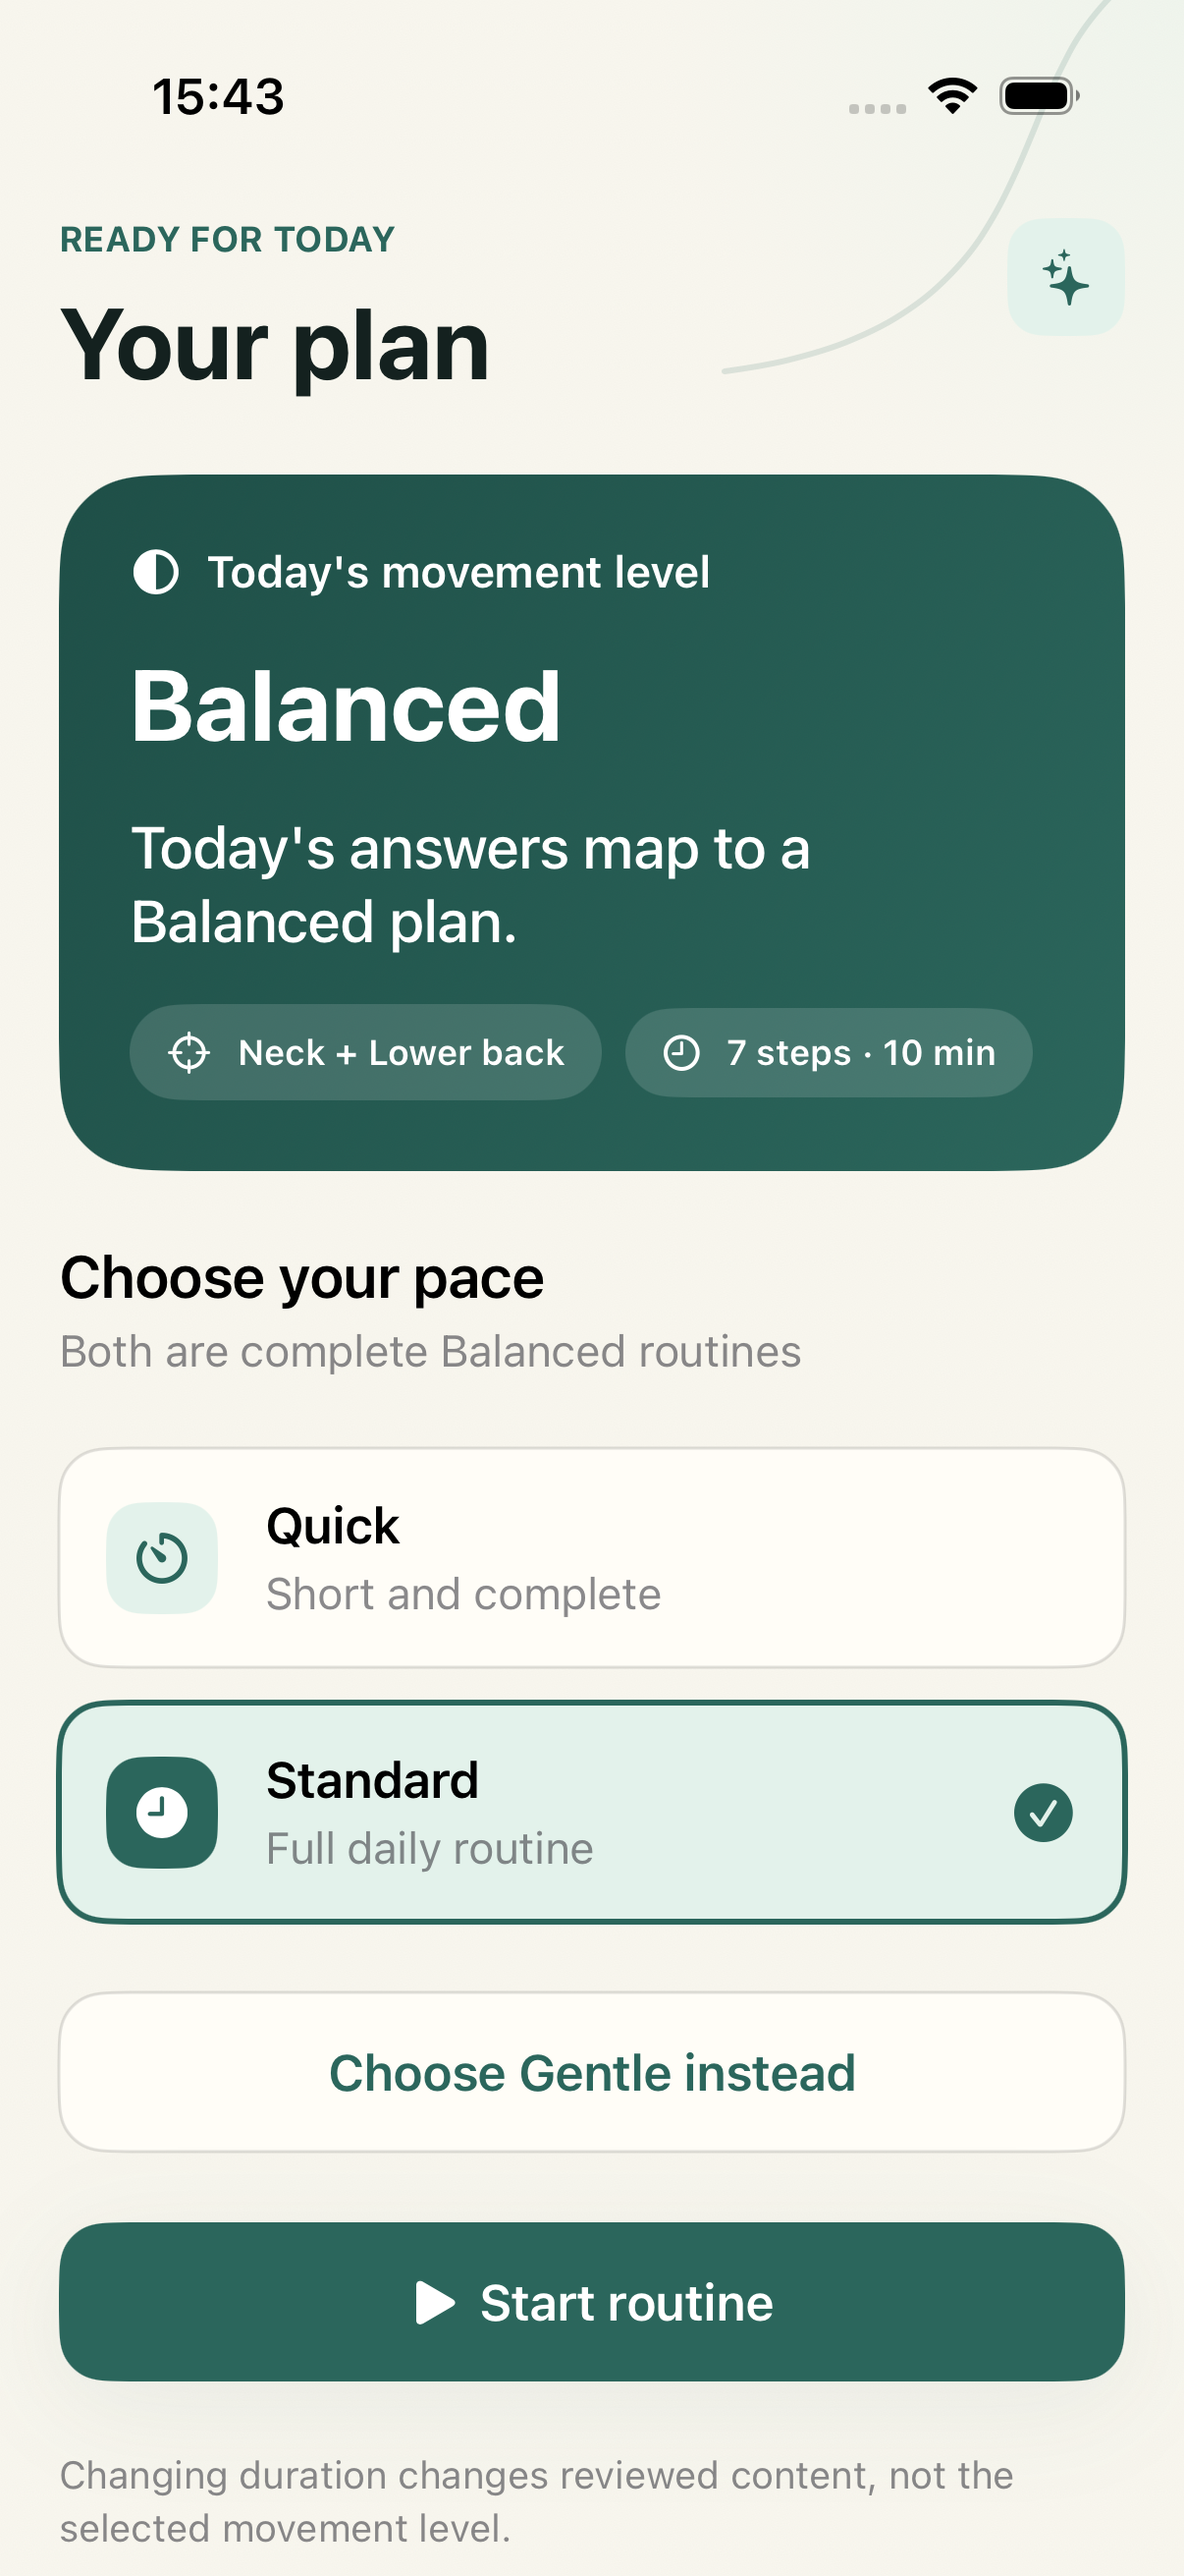
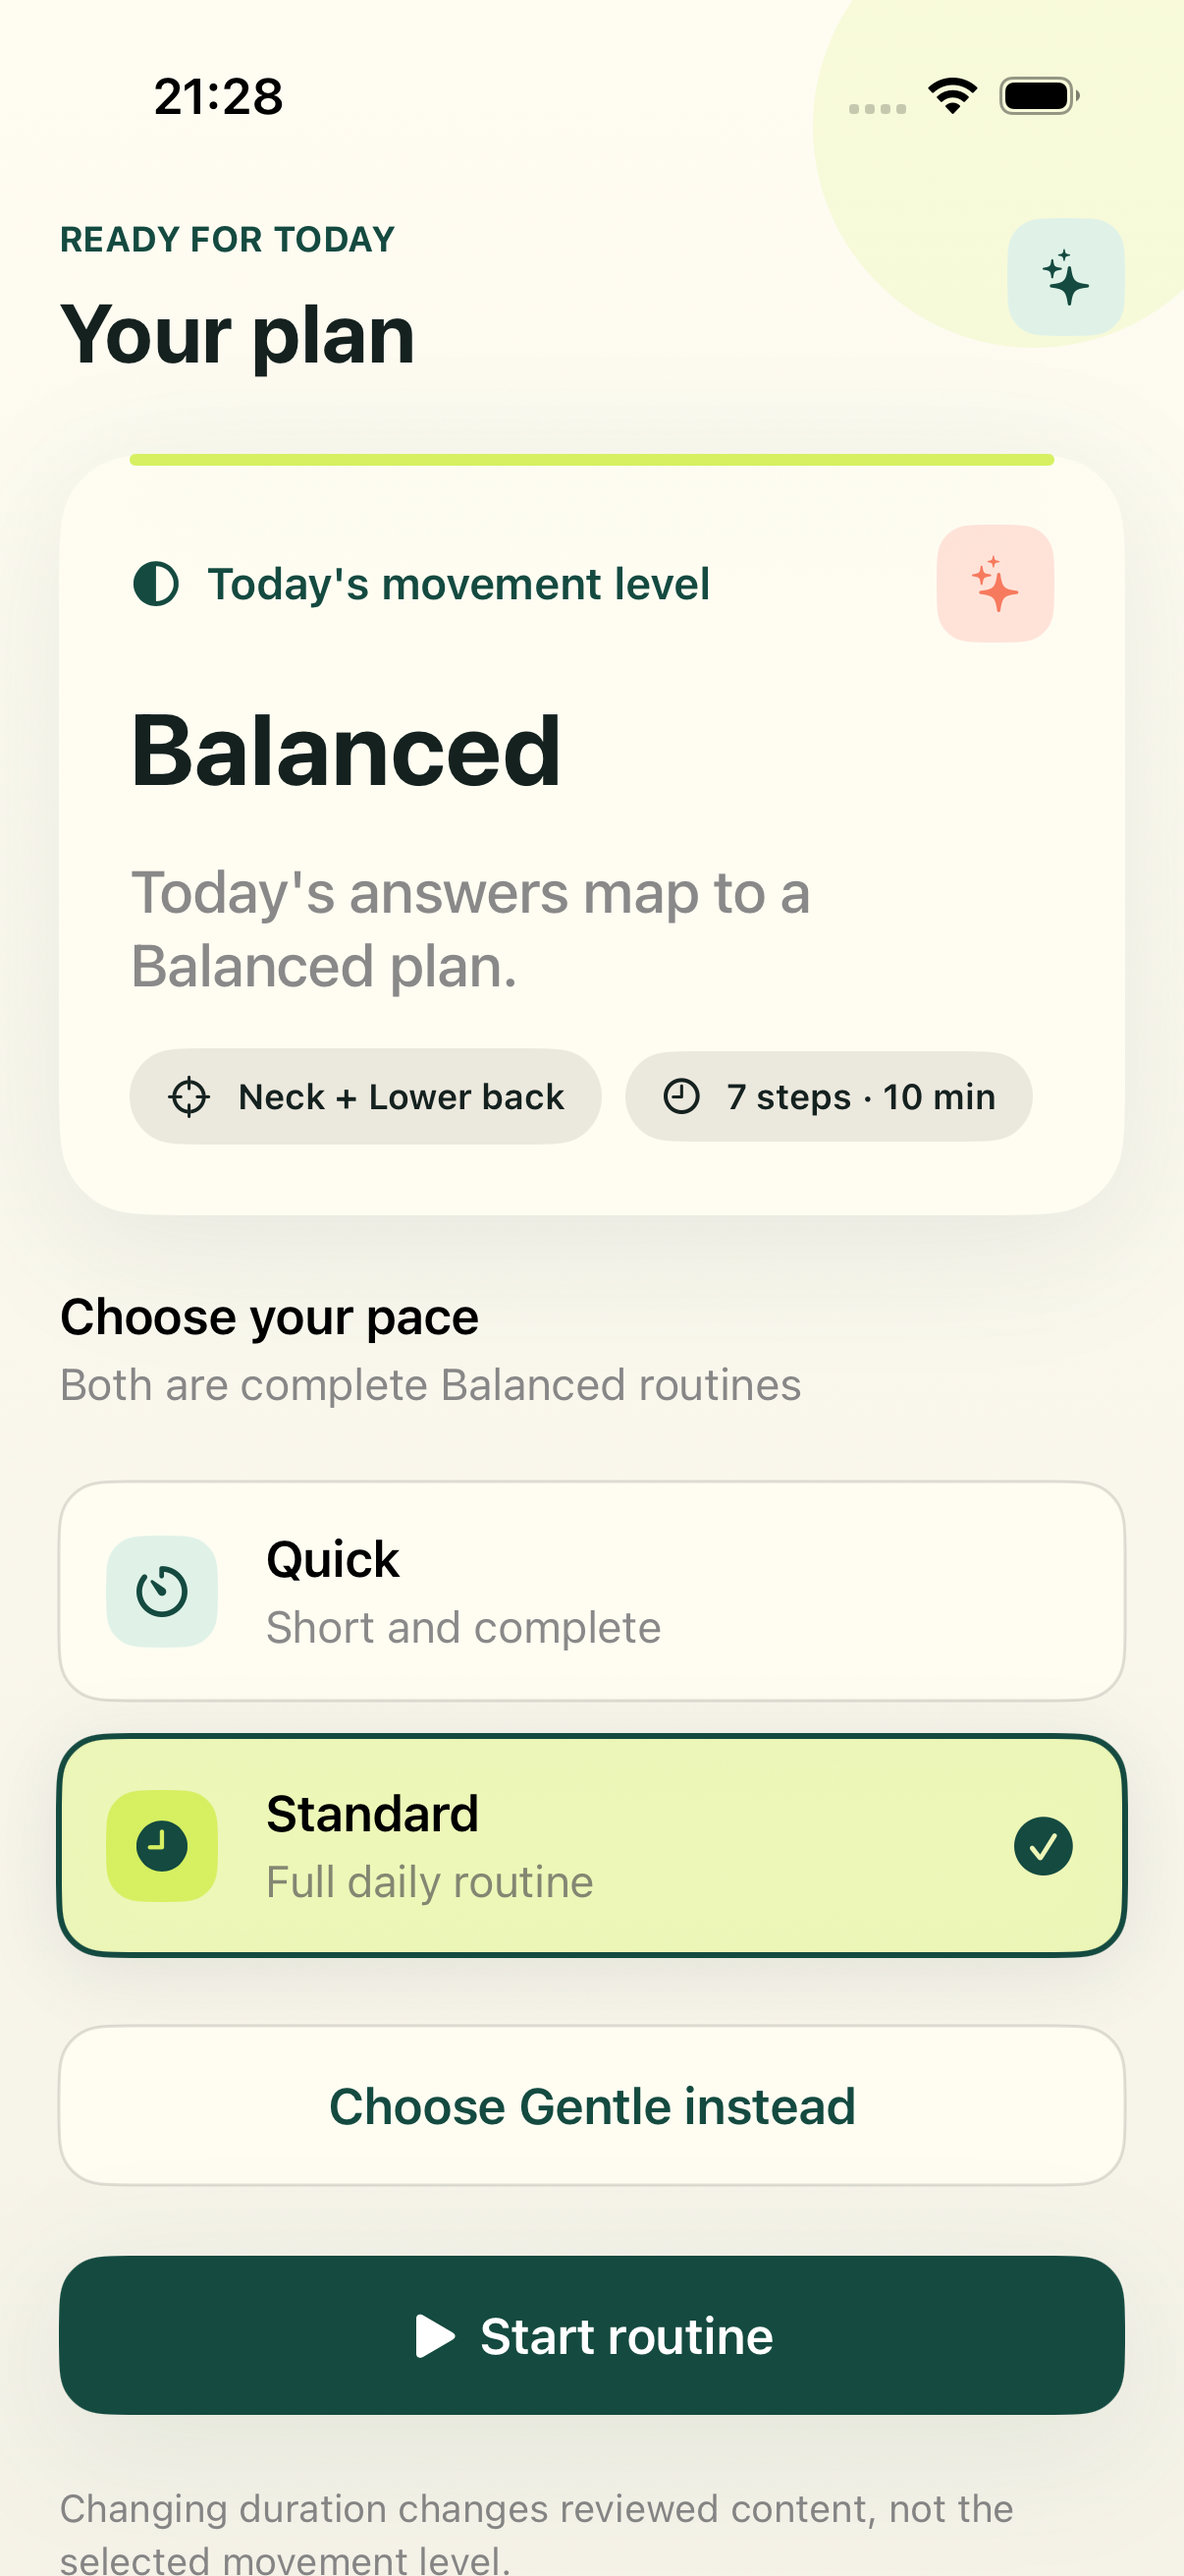
feat(ui): focus the daily coaching experience

diff --git a/Packages/KineoModules/Sources/KineoUI/KineoRootView.swift b/Packages/KineoModules/Sources/KineoUI/KineoRootView.swift
@@ -176,7 +176,7 @@ private struct WelcomeView: View {
                             .accessibilityHeading(.h1)
                             .accessibilityFocused($titleFocused)
                             .fixedSize(horizontal: false, vertical: true)
-                        Text("Check in. See what fits today. Move at your pace.")
+                        Text("Two quick answers. One clear next step.")
                             .font(.title3.weight(.medium))
                             .foregroundStyle(.secondary)
                             .fixedSize(horizontal: false, vertical: true)
@@ -336,53 +336,64 @@ private struct TodayTabsView: View {
             ProfileTabView(model: model)
                 .tabItem { Label("Profile", systemImage: "person.crop.circle") }
         }
+        .kineoTabChrome()
         .task { model.send(.loadDashboard) }
     }
 }
 
 private struct TodayFocusCard: View {
+    @Environment(\.dynamicTypeSize) private var dynamicTypeSize
     let area: BodyArea
     let startCheckIn: () -> Void
 
     var body: some View {
         ZStack(alignment: .topTrailing) {
             RoundedRectangle(cornerRadius: KineoLayout.heroRadius, style: .continuous)
-                .fill(KineoColor.brandGradient)
-            KineoMovementPath()
-                .stroke(
-                    Color.white.opacity(KineoLayout.decorativeOpacity),
-                    style: StrokeStyle(
-                        lineWidth: KineoLayout.selectedBorderWidth,
-                        lineCap: .round
-                    )
-                )
+                .fill(KineoColor.spotlightGradient)
+            Circle()
+                .fill(KineoColor.coralSurface)
                 .frame(
-                    width: KineoLayout.decorativePathWidth,
-                    height: KineoLayout.decorativePathHeight
+                    width: KineoLayout.compactDecorativeOrbSize,
+                    height: KineoLayout.compactDecorativeOrbSize
                 )
+                .padding(KineoLayout.standardSpacing)
                 .accessibilityHidden(true)
             VStack(alignment: .leading, spacing: KineoLayout.standardSpacing) {
-                Label(area.title, systemImage: area.symbol)
-                    .font(.subheadline.weight(.semibold))
-                    .foregroundStyle(Color.white)
-                    .padding(.horizontal, KineoLayout.smallSpacing)
-                    .frame(minHeight: KineoLayout.minimumTouchTarget)
-                    .background(
-                        Color.white.opacity(KineoLayout.decorativeOpacity),
-                        in: Capsule()
-                    )
-                Text("How does movement feel today?")
-                    .font(.title.bold())
-                    .foregroundStyle(Color.white)
-                    .fixedSize(horizontal: false, vertical: true)
-                Text("Two quick prompts guide what Kineo can offer today. Time changes length, never the selected level.")
+                HStack(alignment: .bottom, spacing: KineoLayout.smallSpacing) {
+                    VStack(alignment: .leading, spacing: KineoLayout.smallSpacing) {
+                        Label(area.title, systemImage: area.symbol)
+                            .font(.subheadline.weight(.semibold))
+                            .foregroundStyle(KineoColor.accent)
+                            .padding(.horizontal, KineoLayout.smallSpacing)
+                            .frame(minHeight: KineoLayout.minimumTouchTarget)
+                            .background(.regularMaterial, in: Capsule())
+                        Text("Your move for today starts here.")
+                            .font(.title.bold())
+                            .foregroundStyle(KineoColor.brandInk)
+                            .fixedSize(horizontal: false, vertical: true)
+                    }
+                    .frame(maxWidth: .infinity, alignment: .leading)
+                    if !dynamicTypeSize.isAccessibilitySize {
+                        Image("KineoHeroFigure", bundle: .module)
+                            .resizable()
+                            .scaledToFit()
+                            .frame(maxWidth: KineoLayout.compactEditorialFigureWidth)
+                            .accessibilityHidden(true)
+                    }
+                }
+                Text("Tell Kineo how movement feels, then see the plan that matches your answers.")
                     .font(.body)
-                    .foregroundStyle(Color.white)
+                    .foregroundStyle(.secondary)
                     .fixedSize(horizontal: false, vertical: true)
-                OnAccentButton("Start today's check-in", symbol: "arrow.right", action: startCheckIn)
+                PrimaryButton("Start today's check-in", symbol: "arrow.right", action: startCheckIn)
             }
             .padding(KineoLayout.heroCardPadding)
         }
+        .shadow(
+            color: KineoColor.accent.opacity(KineoLayout.shadowOpacity),
+            radius: KineoLayout.shadowRadius,
+            y: KineoLayout.shadowVerticalOffset
+        )
     }
 }
 
@@ -524,15 +535,15 @@ private struct ProgressHeroCard: View {
             VStack(alignment: .leading, spacing: KineoLayout.compactSpacing) {
                 Text("Your rhythm")
                     .font(.caption.weight(.bold))
-                    .foregroundStyle(Color.white)
+                    .foregroundStyle(KineoColor.accent)
                     .textCase(.uppercase)
                 Text("Keep showing up in a way that fits your day.")
                     .font(.title3.weight(.semibold))
-                    .foregroundStyle(Color.white)
+                    .foregroundStyle(KineoColor.brandInk)
                     .fixedSize(horizontal: false, vertical: true)
                 Text("No streaks or recovery scores")
                     .font(.footnote)
-                    .foregroundStyle(Color.white.opacity(KineoLayout.unselectedOpacity))
+                    .foregroundStyle(.secondary)
             }
             Spacer(minLength: KineoLayout.compactSpacing)
             VStack(spacing: KineoLayout.hairlineSpacing) {
@@ -541,18 +552,18 @@ private struct ProgressHeroCard: View {
                 Text("days")
                     .font(.caption.weight(.semibold))
             }
-            .foregroundStyle(Color.white)
+            .foregroundStyle(KineoColor.accent)
             .frame(
                 width: KineoLayout.progressRingSize,
                 height: KineoLayout.progressRingSize
             )
             .background(
-                Color.white.opacity(KineoLayout.decorativeOpacity),
+                KineoColor.highlight,
                 in: Circle()
             )
         }
         .padding(KineoLayout.heroCardPadding)
-        .background(KineoColor.brandGradient)
+        .background(KineoColor.spotlightGradient)
         .clipShape(RoundedRectangle(
             cornerRadius: KineoLayout.heroRadius,
             style: .continuous
@@ -996,15 +1007,24 @@ private struct PlanSummaryHero: View {
 
     var body: some View {
         VStack(alignment: .leading, spacing: KineoLayout.standardSpacing) {
-            Label("Today's movement level", systemImage: plan.deliveredLevel.symbol)
-                .font(.subheadline.weight(.semibold))
-                .foregroundStyle(Color.white)
+            HStack {
+                Label("Today's movement level", systemImage: plan.deliveredLevel.symbol)
+                    .font(.subheadline.weight(.semibold))
+                    .foregroundStyle(KineoColor.accent)
+                Spacer()
+                KineoIconBadge(
+                    symbol: "sparkles",
+                    foregroundStyle: KineoColor.coral,
+                    backgroundStyle: KineoColor.coralSurface
+                )
+                .accessibilityHidden(true)
+            }
             Text(plan.deliveredLevel.title)
                 .font(.largeTitle.bold())
-                .foregroundStyle(Color.white)
+                .foregroundStyle(KineoColor.brandInk)
             Text(plan.explanationText)
                 .font(.title3.weight(.medium))
-                .foregroundStyle(Color.white)
+                .foregroundStyle(.secondary)
                 .fixedSize(horizontal: false, vertical: true)
             ViewThatFits(in: .horizontal) {
                 HStack(spacing: KineoLayout.compactSpacing) {
@@ -1017,11 +1037,22 @@ private struct PlanSummaryHero: View {
         }
         .padding(KineoLayout.heroCardPadding)
         .frame(maxWidth: .infinity, alignment: .leading)
-        .background(KineoColor.brandGradient)
+        .background(KineoColor.elevatedSurface)
         .clipShape(RoundedRectangle(
             cornerRadius: KineoLayout.heroRadius,
             style: .continuous
         ))
+        .overlay(alignment: .top) {
+            Capsule()
+                .fill(KineoColor.highlight)
+                .frame(height: KineoLayout.hairlineSpacing)
+                .padding(.horizontal, KineoLayout.heroCardPadding)
+        }
+        .shadow(
+            color: KineoColor.accent.opacity(KineoLayout.shadowOpacity),
+            radius: KineoLayout.shadowRadius,
+            y: KineoLayout.shadowVerticalOffset
+        )
     }
 
     @ViewBuilder
@@ -1044,11 +1075,11 @@ private struct PlanMetadataPill: View {
     var body: some View {
         Label(title, systemImage: symbol)
             .font(.caption.weight(.semibold))
-            .foregroundStyle(Color.white)
+            .foregroundStyle(KineoColor.brandInk)
             .padding(.horizontal, KineoLayout.smallSpacing)
             .padding(.vertical, KineoLayout.compactSpacing)
             .background(
-                Color.white.opacity(KineoLayout.decorativeOpacity),
+                KineoColor.subduedSurface,
                 in: Capsule()
             )
     }
@@ -1296,27 +1327,30 @@ private struct PrototypeMovementPreview: View {
         VStack(alignment: .leading, spacing: KineoLayout.smallSpacing) {
             ZStack(alignment: .topLeading) {
                 RoundedRectangle(cornerRadius: KineoLayout.controlRadius, style: .continuous)
-                    .fill(KineoColor.brandGradient)
-                KineoMovementPath()
-                    .stroke(
-                        Color.white.opacity(KineoLayout.backgroundGlowOpacity),
-                        lineWidth: KineoLayout.selectedBorderWidth
+                    .fill(KineoColor.spotlightGradient)
+                Circle()
+                    .fill(KineoColor.coralSurface)
+                    .frame(
+                        width: KineoLayout.decorativeOrbSize,
+                        height: KineoLayout.decorativeOrbSize
                     )
-                    .padding(KineoLayout.heroCardPadding)
-                Image(systemName: "figure.flexibility")
-                    .font(.system(
-                        size: KineoLayout.heroArtworkSymbolSize,
-                        weight: .light
-                    ))
-                    .foregroundStyle(Color.white)
+                    .frame(maxWidth: .infinity, maxHeight: .infinity, alignment: .bottomLeading)
+                    .offset(
+                        x: -KineoLayout.sectionSpacing,
+                        y: KineoLayout.sectionSpacing
+                    )
+                Image("KineoHeroFigure", bundle: .module)
+                    .resizable()
+                    .scaledToFit()
+                    .padding(.top, KineoLayout.smallSpacing)
                     .frame(maxWidth: .infinity, maxHeight: .infinity)
                 Label("Prototype preview", systemImage: "hammer.fill")
                     .font(.caption.weight(.bold))
-                    .foregroundStyle(Color.white)
+                    .foregroundStyle(KineoColor.brandInk)
                     .padding(.horizontal, KineoLayout.smallSpacing)
                     .frame(minHeight: KineoLayout.minimumTouchTarget)
                     .background(
-                        Color.black.opacity(KineoLayout.decorativeOpacity),
+                        .regularMaterial,
                         in: Capsule()
                     )
                     .padding(KineoLayout.standardSpacing)
